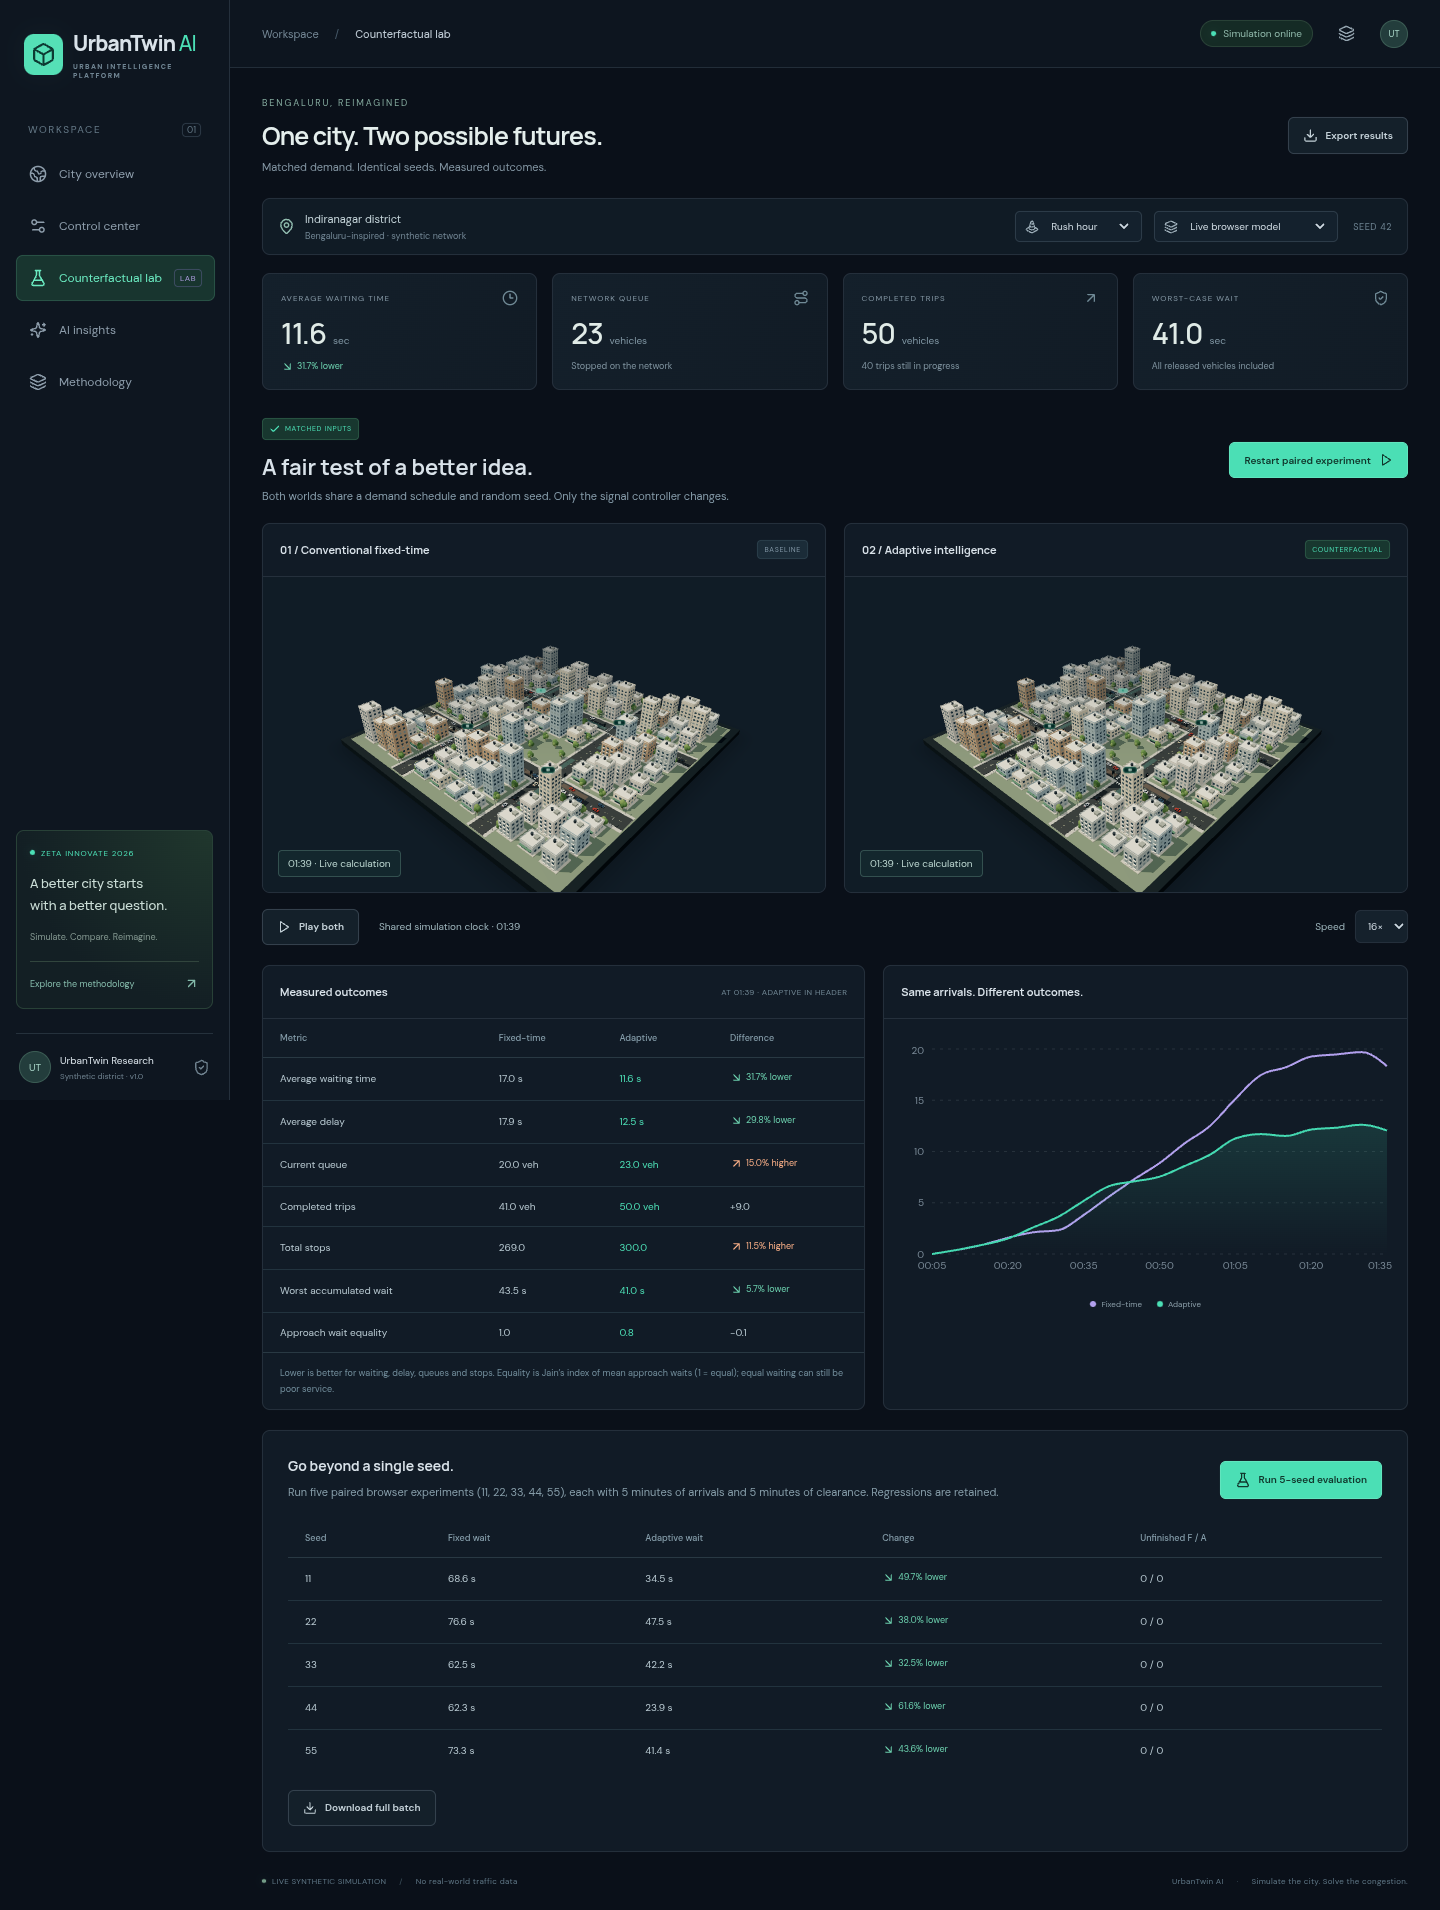
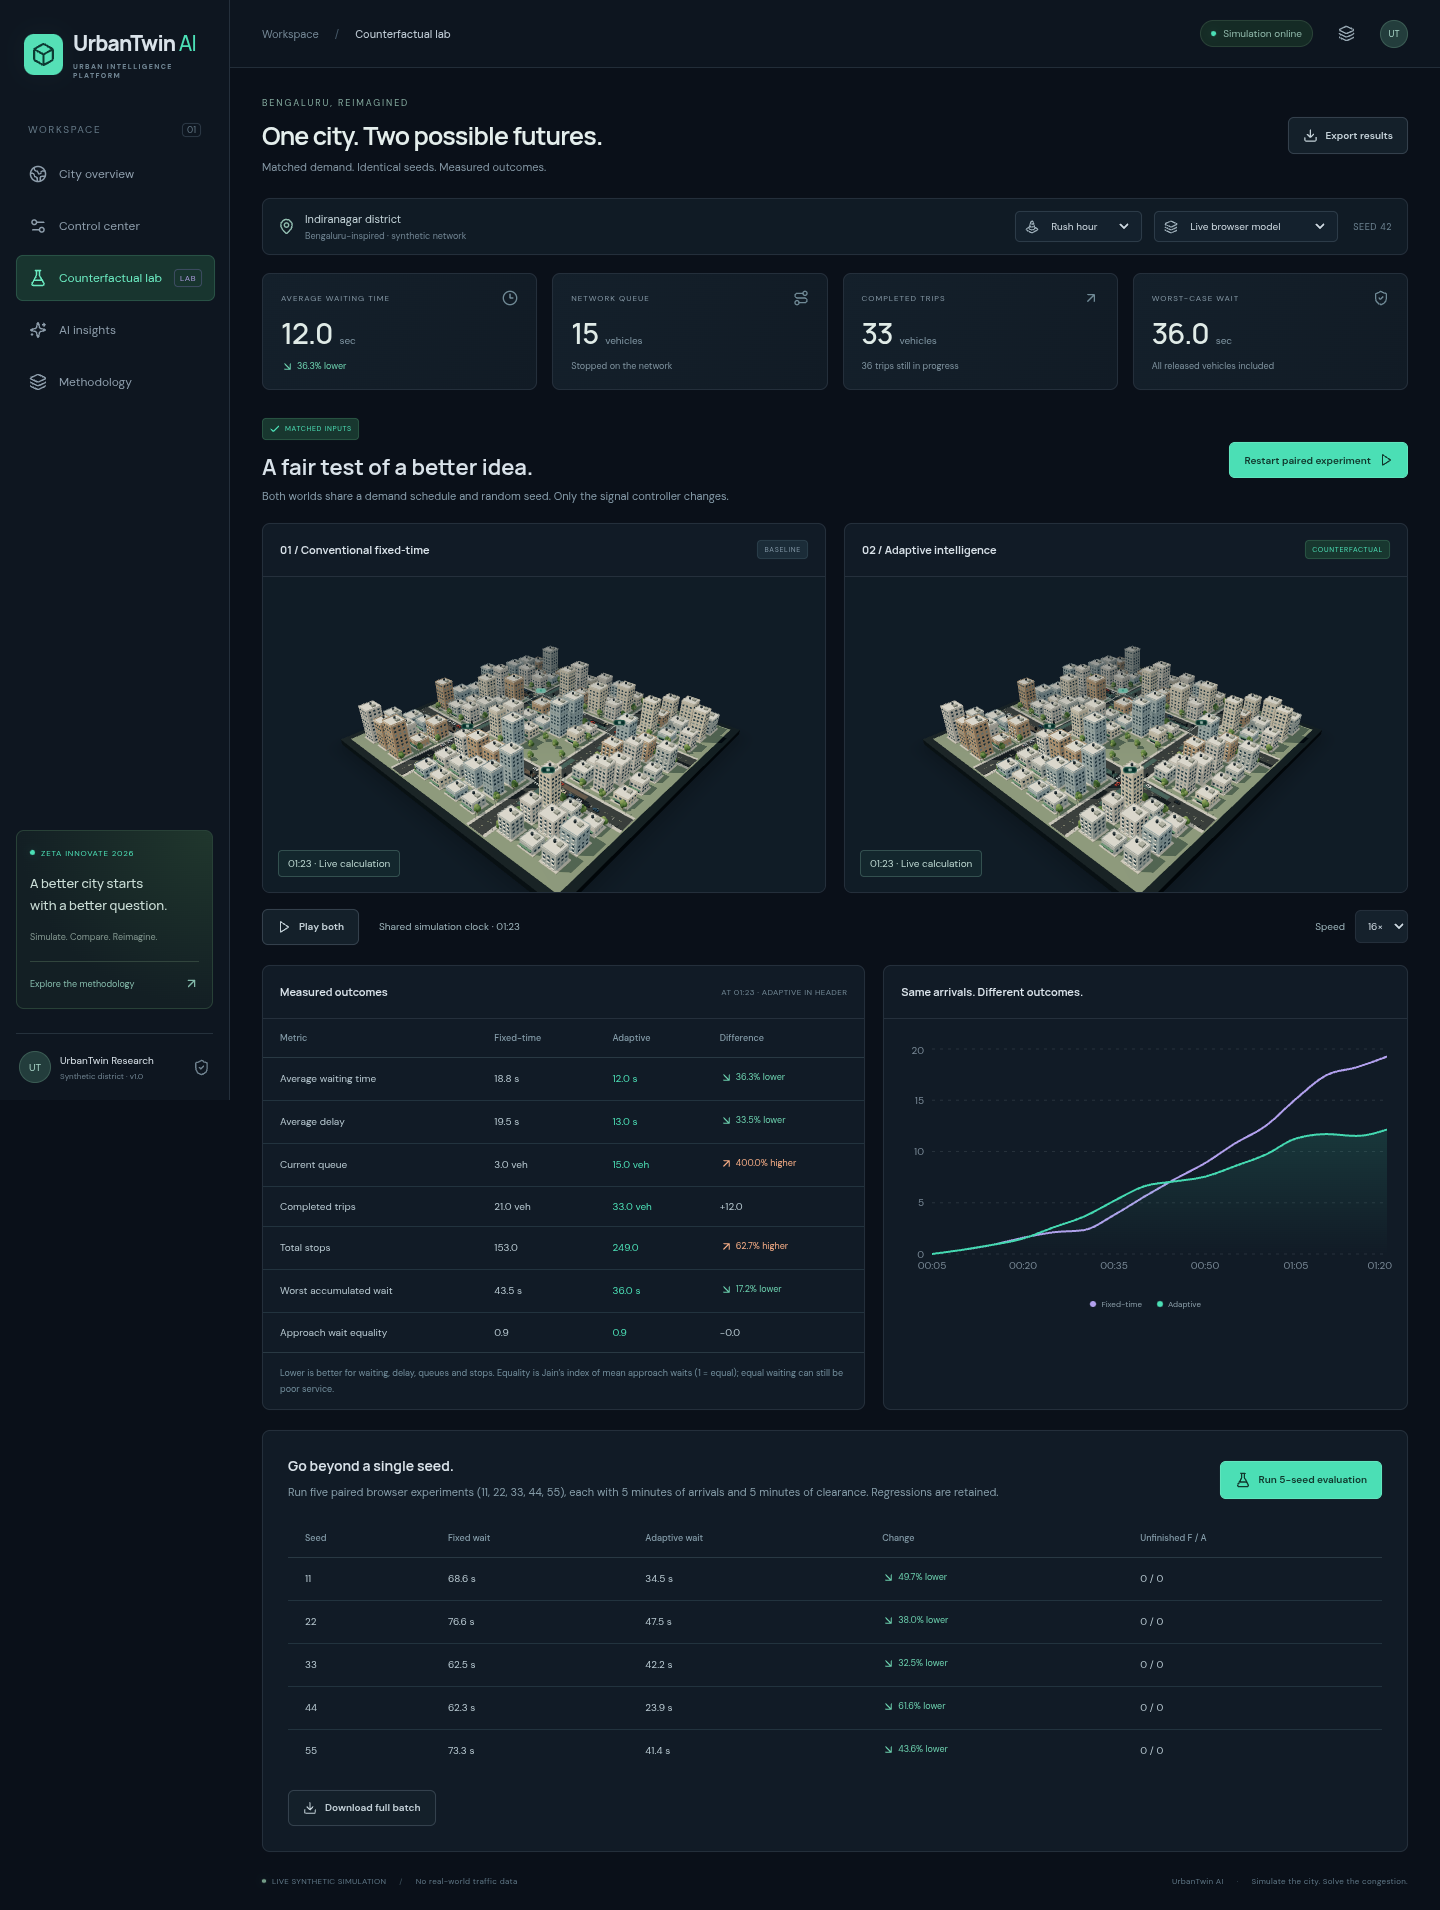
Keep live comparison charts visible during accelerated playback

diff --git a/tests/browser/app.spec.ts b/tests/browser/app.spec.ts
@@ -9,6 +9,7 @@ test('complete traffic lab journey', async ({ page }, testInfo) => {
   await expect(page.locator('canvas')).toBeVisible();
   await page.getByLabel('Playback speed', { exact: true }).selectOption('16');
   await expect(page.locator('.time-code')).not.toContainText('00:00');
+  await expect(page.locator('.trend-chart .recharts-area-curve')).toHaveCount(2);
   await page.getByRole('button', { name: 'Pause simulation', exact: true }).click();
   const time = await page.locator('.time-code').textContent();
   await page.waitForTimeout(700);

diff --git a/src/App.tsx b/src/App.tsx
@@ -175,6 +175,7 @@ function Chart({ data, compare = false }: { data: unknown[]; compare?: boolean }
         />
         {compare && (
           <Area
+            isAnimationActive={false}
             type="monotone"
             dataKey="fixed"
             name="Fixed wait (s)"
@@ -184,6 +185,7 @@ function Chart({ data, compare = false }: { data: unknown[]; compare?: boolean }
           />
         )}
         <Area
+          isAnimationActive={false}
           type="monotone"
           dataKey="adaptive"
           name="Adaptive wait (s)"

diff --git a/docs/VERIFICATION.md b/docs/VERIFICATION.md
@@ -38,3 +38,5 @@ Fixed two issues found during inspection: a completed live run's stopped interva
 The city now uses shared detailed vehicle geometry (wheels, tapered glazing, roof and lights), stable paint colors, bounded interpolation between observed vehicle positions, warm directional shadows, varied building heights and facades, balconies, rooftop utilities, sidewalk trees, curbs and streetlights. Pause displays exact simulation positions. Rendering interpolation never predicts beyond the latest observed position; while running, its display can lag the metrics by up to one simulation sample. Physics, signal timing and evaluation data were not changed. Queue colors describe road overlays, not car paint.
 
 Desktop, mobile and junction-detail screenshots are actual local browser captures. This is still a procedural synthetic district with simplified materials and straight vehicle routes, not photorealism or a surveyed Bengaluru reconstruction. Dedicated GPU/mobile hardware frame-rate profiling and direct public-domain browser testing remain unverified; the cloud network policy permits Vercel connector fetching but blocks browser access to that domain.
+
+The final visual review also found repeatedly restarted chart entrance animations during fast playback. Live chart paths now render immediately; the browser journey asserts both strategy curves are present. The production build and both desktop/mobile journeys passed again after that change.
